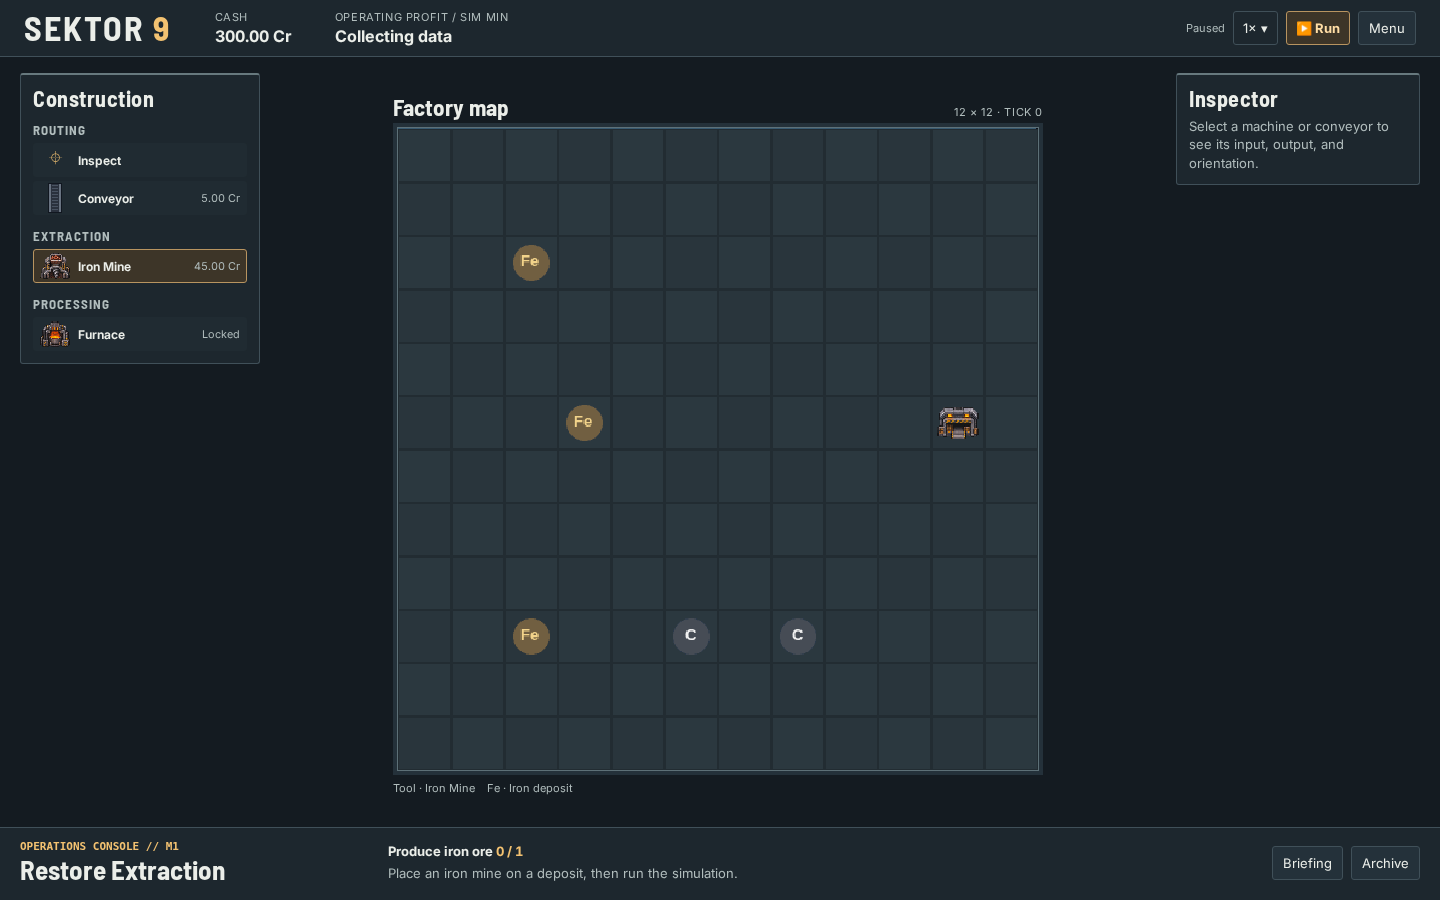
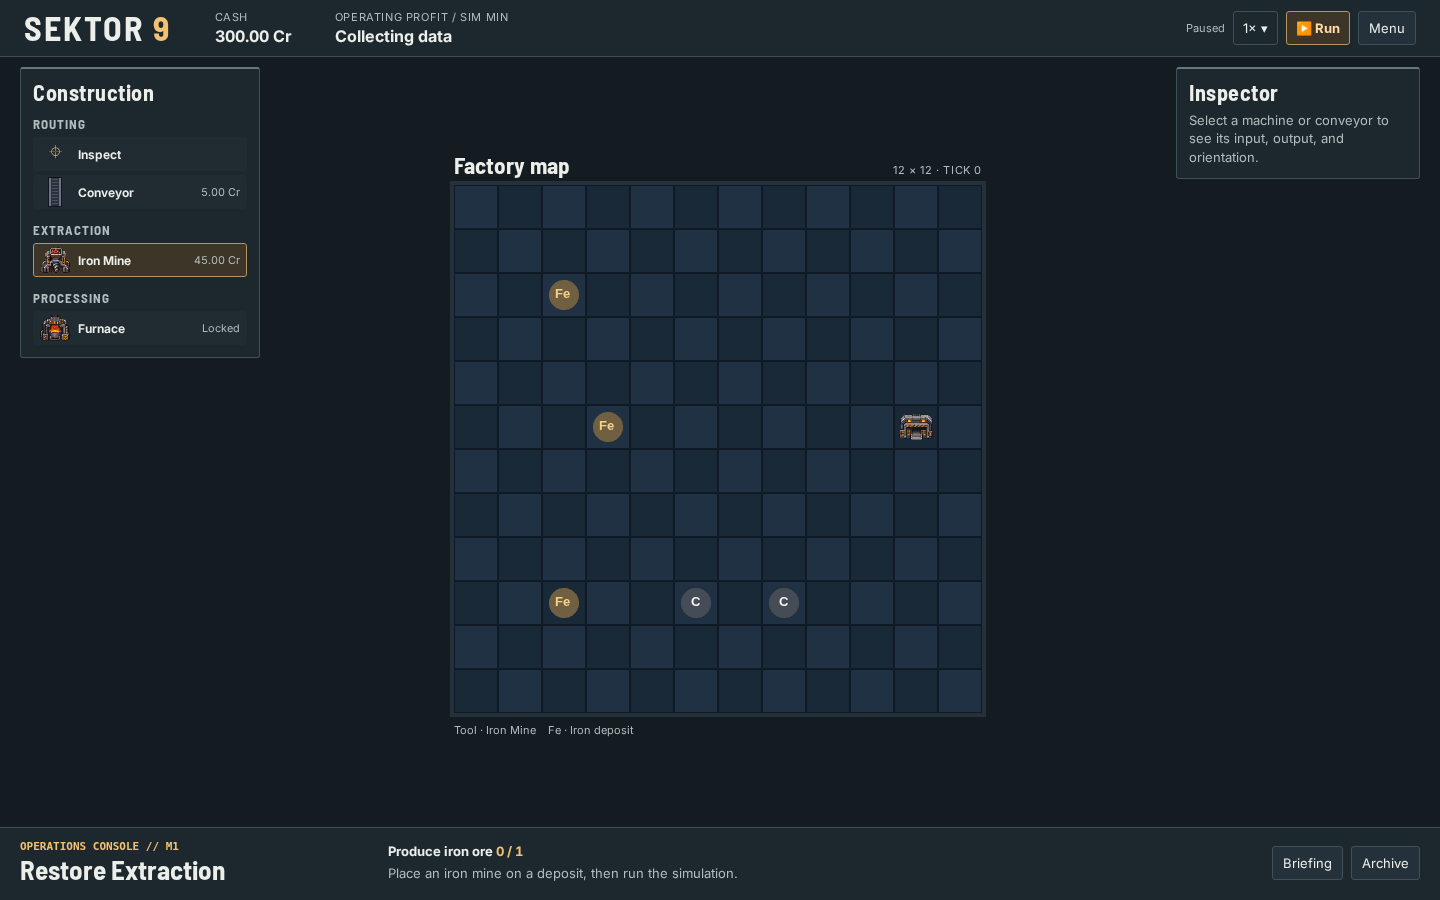
Preserve released map and sprite scale in v0.7 mockups

diff --git a/docs/specifications/art/v0.7-wp0/console.css b/docs/specifications/art/v0.7-wp0/console.css
@@ -44,7 +44,7 @@ header {
 .sim-state { color: var(--muted); font-size: 11px; }
 .pill { display: inline-flex; min-height: 34px; align-items: center; border: 1px solid var(--rule); padding: 0 9px; border-radius: 3px; }
 .primary { border-color: #b89460; background: #3d3528; color: #ffdda5; font-weight: 700; }
-.workspace { flex: 1; width: 100%; display: grid; grid-template-columns: minmax(200px, 240px) minmax(0, 1fr) minmax(208px, 244px); gap: 16px; padding: 16px 20px 12px; margin: auto; max-width: 1600px; }
+.workspace { flex: 1; width: 100%; display: grid; grid-template-columns: minmax(200px, 240px) minmax(0, 1fr) minmax(208px, 244px); gap: 16px; padding: 10px 20px 6px; margin: auto; max-width: 1600px; }
 .panel { align-self: start; max-height: calc(100dvh - 165px); overflow: auto; border: 1px solid var(--rule); border-top: 2px solid #67797e; border-radius: 3px; background: var(--deck); padding: 12px; }
 .panel h2 { font-size: 22px; line-height: 1; letter-spacing: .025em; }
 .panel h3 { font-size: 13px; letter-spacing: .08em; text-transform: uppercase; color: var(--muted); margin: 13px 0 5px; }
@@ -56,11 +56,11 @@ header {
 .tool-mark { color: var(--amber); font-size: 18px; text-align: center; }
 .icon { display: inline-block; width: 30px; height: 30px; object-fit: contain; image-rendering: pixelated; }
 .stage { display: flex; min-width: 0; flex-direction: column; justify-content: center; align-items: center; }
-.board-frame { width: min(100%, 650px, calc(100dvh - 222px)); }
+.board-frame { width: var(--board-width); }
 .board-title { display: flex; justify-content: space-between; align-items: baseline; margin-bottom: 6px; }
 .board-title h2 { font-size: 23px; }
-.board { position: relative; border: 1px solid #5d7077; outline: 4px solid #24313a; margin: 0 4px; aspect-ratio: 1; }
-.map { width: 100%; display: block; image-rendering: pixelated; }
+.board { position: relative; outline: 4px solid #24313a; }
+.map { display: block; image-rendering: pixelated; }
 .map-blockage { position: absolute; top: var(--y); left: var(--x); width: calc(100% / 12); height: calc(100% / 12); border: 2px dashed var(--coral); }
 .map-blockage span { position: absolute; right: -4px; top: -6px; background: var(--foundation); color: var(--coral); font-weight: 700; width: 15px; text-align: center; line-height: 14px; border-radius: 50%; border: 1px solid currentColor; }
 .map-help { margin-top: 10px; display: flex; flex-wrap: wrap; gap: 4px 12px; color: var(--muted); font-size: 11px; }
@@ -90,7 +90,6 @@ dialog button { margin-top: 12px; }
 @media (max-width: 1080px) {
   header { padding-inline: 16px; gap: 18px; }
   .workspace { grid-template-columns: minmax(175px, 205px) minmax(0, 1fr) minmax(190px, 220px); gap: 12px; padding-inline: 12px; }
-  .board-frame { width: min(100%, 650px, calc(100dvh - 240px)); }
 }
 @media (max-width: 820px) {
   header { flex-wrap: wrap; justify-content: space-between; gap: 8px; }
@@ -100,7 +99,6 @@ dialog button { margin-top: 12px; }
   .sim-state { display: none; }
   .tools, .inspection { display: none; }
   .workspace { display: block; padding: 8px 10px; }
-  .board-frame { width: min(100%, 560px, max(210px, calc(100dvh - 323px))); }
   .board-title h2 { font-size: 18px; }
   .mission { grid-template-columns: minmax(0, 1fr) auto; padding: 9px 12px; gap: 5px 10px; }
   .mission h2 { font-size: 22px; }

diff --git a/docs/validation/v0.7-wp0.md b/docs/validation/v0.7-wp0.md
@@ -1,10 +1,10 @@
 # v0.7 WP0 — Operations Console review
 
-The Product Owner approved the [v0.7 release direction](../specifications/v0.7.md). Review these actual-size mockups and the two draft Chapter V transmissions before UI implementation begins.
+The Product Owner approved the [v0.7 release direction](../specifications/v0.7.md). On 22 November 2026, the Product Owner approved the HUD for v0.7, requested the same map and sprite size as v0.6, and deferred a more industrial visual treatment to a later release. The corrected mockups below show the released map at its native 528 × 528 size on desktop, fitted to the existing map frame at compact widths. Chapter V transmissions remain open for review.
 
 ## Before and after
 
-Open each image at original size. It shows one CSS pixel per image pixel. Both columns use the same paused factory state at each size. The mockup uses the released Pixi board artwork with quieter grid fills, and a separate console layout used only for design review.
+Open each image at original size. It shows one CSS pixel per image pixel. Both columns use the same paused factory state at each size. The mockup embeds the released Pixi canvas capture at 528 × 528 CSS pixels on desktop, matching the v0.6 canvas. At compact widths, the mockup fits the full board into the existing map frame so the outer columns stay visible. It uses the v0.6 sprite atlas and grid colors. The console layout is a design preview.
 
 | Scene | Viewport | Released v0.6 | v0.7 proposal |
 | --- | --- | --- | --- |
@@ -22,7 +22,7 @@ The released desktop UI shows revenue and operating cost alongside profit in the
 - **M1** starts from the normal 300 Cr opener, dismisses the introduction and pauses at tick zero. The selected tool is Iron Mine. Operating profit awaits a full simulation minute of evidence.
 - **M15** uses the Corporate post-M13 checkpoint generated by the paid replay, activates Chapter IV, and takes 30 ticks to enter M15. The capture turns the conveyor at (1, 7) east and advances 60 ticks. At tick 2167 the resulting validated save has 8614.80 Cr cash, 573.65 Cr operating profit per simulation minute and power supply matching demand at 2/2. The conveyor holds a gear and was stalled for 54 of the last 60 ticks. M15 shows zero of three copper ore delivered. This is a reproducible factory scenario with a deliberate routing fault.
 
-For AC1, use each scene to locate cash, operating profit, the selected tool and the active objective. In M15, identify which tile is blocked and how close the copper shipment is to completion. Review the [Chapter V premise and draft transmissions](../specifications/v0.7.md#chapter-v--the-isolation-log) with the proposed console terminology. Product Owner review is pending.
+For AC1, use each scene to locate cash, operating profit, the selected tool and the active objective. In M15, identify which tile is blocked and how close the copper shipment is to completion. Review the [Chapter V premise and draft transmissions](../specifications/v0.7.md#chapter-v--the-isolation-log) with the proposed console terminology. Product Owner review of the corrected map and Chapter V transmissions is pending.
 
 ## Reproduce
 
@@ -34,4 +34,4 @@ npx playwright install chromium
 node scripts/capture-v07-wp0.mjs /tmp/sector-nine-v07-captures
 ```
 
-Set `PLAYWRIGHT_CHROMIUM_EXECUTABLE_PATH` when using an alternative compatible Chromium binary. The capture script runs the existing paid checkpoint exporter and validates both fixtures. It launches a fresh browser context for each capture and seeds only that context's temporary local game slot. It verifies both fonts are loaded, checks horizontal overflow and verifies that the board and active stage are both visible at each review size, and tests keyboard entry and focus return for the briefing. It also checks a 1024 × 576 CSS viewport as a layout approximation of 1280 × 720 at 125% browser zoom. Native browser zoom, live placement and rotation, and gameplay at both speeds are subsequent work. The Run and speed renderings are illustrative. The font files and their licenses apply to the mockup only.
+Set `PLAYWRIGHT_CHROMIUM_EXECUTABLE_PATH` when using an alternative compatible Chromium binary. The capture script runs the existing paid checkpoint exporter and validates both fixtures. It launches a fresh browser context for each capture and seeds only that context's temporary local game slot. It verifies the preview displays each board capture without further resampling, both fonts are loaded, checks horizontal overflow and verifies that the board and active stage are both visible at each review size, and tests keyboard entry and focus return for the briefing. It also checks a 1024 × 576 CSS viewport as a layout approximation of 1280 × 720 at 125% browser zoom. Native browser zoom, live placement and rotation, and gameplay at both speeds are subsequent work. The Run and speed renderings are illustrative. The font files and their licenses apply to the mockup only.

diff --git a/docs/specifications/v0.7.md b/docs/specifications/v0.7.md
@@ -15,7 +15,7 @@ Make the factory easier to read and operate across the whole campaign. Let retur
 | Operations Console | Carry `OPERATIONS CONSOLE // M<n>` through M17. Show mission title, active stage, current/target values, and what is holding up progress. Put briefing, transmissions, and detailed window rules one action away. Maintain a visible chapter-start action and a free-play state. | A rolling window filling, a failed continuity condition, an M15 stage transition, and an M17 transition. |
 | Construction and Inspector | Use the matching sprite, machine name, and cost in the construction palette. Group tools by function. Make current input, output, power, and blockage status easy to find in the inspector. Label splitter outlet priority with direction and use the same indicator on the map. | Place and rotate a machine, then diagnose and reroute a blocked splitter. |
 | Typography and color | Prototype Barlow Semi Condensed for headings, Inter for UI and story text, and tabular numerals for counters. Use monospace sparingly for identifiers and coordinates. Match slate surfaces and steel framing to the current sprites, reserve amber for priority or attention and coral for blockages. Pair color with labels, outlines or glyphs. Approve font sizes and spacing at actual game scale. | Launch screen, full gameplay workspace, transmission archive, and keyboard focus. |
-| Factory map | Keep the physical 12×12 board. Reduce grid contrast, give the board available viewport space, and use a consistent hierarchy for cargo, track joins, selection, placement previews, and warnings. Show exposed deposits clearly. Keep covered deposit markers out of the way and expose underlying resources in the inspector. Validate tile targeting and drag rotation at every supported size. | Congested 1×/2× run. Check splitter directions, bends, exposed vs. occupied deposits, copper vs. iron, and ingot vs. steel. |
+| Factory map | Keep the physical 12×12 board. Keep the v0.6 desktop board at 528 × 528 CSS pixels and retain the shipped sprite resolution and grid artwork. Fit the full board within the existing map frame at compact widths. Use a consistent hierarchy for cargo, track joins, selection, placement previews, and warnings. Show exposed deposits clearly. Keep covered deposit markers out of the way and expose underlying resources in the inspector. Validate tile targeting and drag rotation at every supported size. | Congested 1×/2× run. Check splitter directions, bends, exposed vs. occupied deposits, copper vs. iron, and ingot vs. steel. |
 
 Reuse the shipped [v0.6 atlas and board examples](https://github.com/dzon2000/sector-nine/blob/v0.6/docs/specifications/art/v0.6-atlas.md) for the art direction. Capture before/after views for desktop at 1280×720 and 1440×900 and for the existing compact layout. Treat these as review sizes. Include keyboard navigation, focus return, no horizontal overflow, and gameplay at browser zoom in the review. Preserve gameplay semantics and keep renderer decisions outside the simulation.
 
@@ -73,4 +73,4 @@ WP1 comes early so later UI work can be checked on mature factories. WP4 starts 
 
 - Keep the current grid dimensions, deposit/terminal positions, prices, costs, recipes, power, transport rules, and M1–M15 objectives. Any change to approved gameplay or economics requires an ADR and Product Owner approval. Campaign saves use the current-version policy in ADR-0006.
 - Keep map expansion, robots, new production buildings, a new resource chain, and legacy save migration for a later release.
-- Approved release direction includes the industrial console treatment, a playtest-only selector for Chapters II–V with paid starts, and the two-mission Chapter V arc. Exact typography and mission values are pending actual-size review and paid feasibility respectively.
+- Approved release direction includes the industrial console treatment, a playtest-only selector for Chapters II–V with paid starts, and the two-mission Chapter V arc. On 22 November 2026, the Product Owner approved the HUD, directed that map and sprite sizing match v0.6, and deferred a more industrial visual treatment to a later release. Mission values remain pending paid feasibility.

diff --git a/docs/implementation/v0.7-tasks.md b/docs/implementation/v0.7-tasks.md
@@ -4,10 +4,10 @@
 
 | WP | Work and dependencies | Acceptance evidence |
 | --- | --- | --- |
-| WP0 | Capture the v0.6 opening and a congested paid factory. Review actual-size desktop and compact UI mockups against the approved story and shipped atlas. | AC1. Before/after views with readable HUD/board/console and a documented baseline. Owner reviews the visual treatment and story application before progressing. |
+| WP0 | Capture the v0.6 opening and a congested paid factory. Review actual-size desktop and compact UI mockups against the approved story and shipped atlas. | AC1. Before/after views with readable HUD/board/console and a documented baseline. Owner approved the HUD and requested the v0.6 board and sprite size. Corrected map evidence and Chapter V story review complete this gate. |
 | WP1 | Extract only the shared paid replay needed for chapter entry from `tests/integration/economy/v0.4-recovery.test.ts`. Start II from completed I, III from post-M10, IV from post-M13 and V from post-M15. Keep the existing post-M13 launcher working. Build validated paused checkpoints for the current build and load them on demand. Wire V when its campaign start is integrated. | AC2. Replay parity, every start/route, explicit replacement and cancel, missing/corrupt/unsupported fixture, reload, isolated campaign/recorder, queued writes and cross-tab protection. |
 | WP2 | Implement HUD, font roles, palette, inspector, shared Operations Console and transmissions after WP0. Use actual chapter progress and preserve clock and command semantics. | AC3. Browser coverage of stage changes, visibility, keyboard/focus and viewport behavior. Human checks for hierarchy, legibility and understandable progress. |
-| WP3 | Style the PixiJS board with existing atlas/track functions. Use the exact inner game surface for tile targeting. Preserve pointer capture, drag rotation, cargo occupancy and directional overlay meaning. | AC4. Browser and visual coverage of edge/center targeting and one-gesture rotation at desktop and compact sizes, all splitter directions, exposed/occupied deposits, cargo and track joins. |
+| WP3 | Preserve v0.6 board sizing, grid artwork and sprite resolution across viewports. Use the existing atlas and track functions for overlay work. Use the exact inner game surface for tile targeting. Preserve pointer capture, drag rotation, cargo occupancy and directional overlay meaning. | AC4. Browser and visual parity checks for map size and sprite scale, plus coverage of edge/center targeting and one-gesture rotation at desktop and compact sizes, all splitter directions, exposed/occupied deposits, cargo and track joins. |
 | WP4 | After WP0 review, run isolated headless mission candidates against both paid post-M15 routes and a representative mixed layout. | AC5. Record uninterrupted, stalled and recovered traces, capital and cash floor, edits, ticks, window and continuity values. Submit candidate rules and ADR for owner freeze. |
 | WP5 | After WP4 freeze, integrate Chapter V campaign/console, typed mission state, current saves and once-only transmissions. Extend Chapter Playtest and recorder to the validated M16 handoff on both routes. | AC6. Post-activation evidence, prepared and stalled layouts, first/last ticks, both starts, completion and save/reload on either side of the reward boundary. |
 | WP6 | Independent audit of the exact candidate and product-owner playtest on opening UI and a direct Chapter V start. | AC7. Vitest, production build, Playwright, CI on candidate SHA, current-version persistence, recorded player observations and separate release authorization. |
